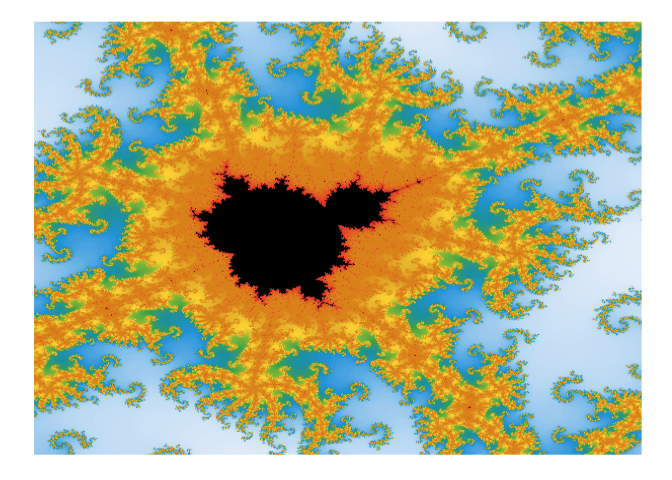
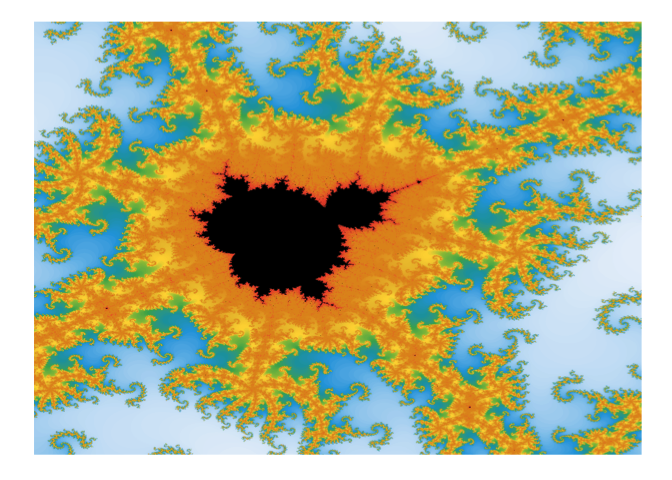
readme

diff --git a/README.md b/README.md
@@ -46,15 +46,18 @@ Don't like `image`? Convert to a `data.frame` for use with ggplot2:
 library(ggplot2)
 
 mb <- mandelbrot(xlim = c(-0.8335, -0.8325),
-  ylim = c(0.205, 0.206), iterations = 1000)
+                 ylim = c(0.205, 0.206), 
+                 x_res = 1200, y_res = 1200,
+                 iterations = 1000)
 
 # weird uneven palette made for a heatmap viz:
 # https://benjaminlmoore.wordpress.com/2015/04/09/recreating-the-vaccination-heatmaps-in-r/
 cols <- c(
   colorRampPalette(c("#e7f0fa", "#c9e2f6", "#95cbee",
                      "#0099dc", "#4ab04a", "#ffd73e"))(10),
-  colorRampPalette(c("#eec73a", "#e29421", "#e29421", "#f05336","#ce472e"),
-    bias=2)(90), "black")
+  colorRampPalette(c("#eec73a", "#e29421", "#e29421", 
+                     "#f05336","#ce472e"), bias=2)(90), 
+  "black")
 
 df <- as.data.frame(mb)
 ggplot(df, aes(x = x, y = y, fill = value)) +
